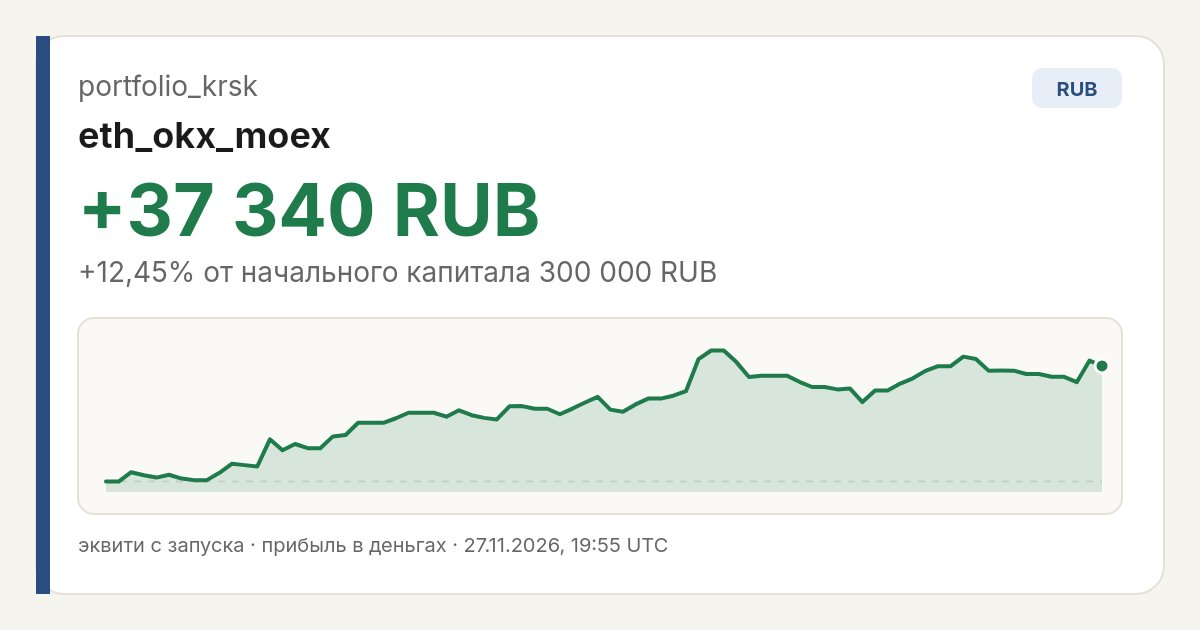
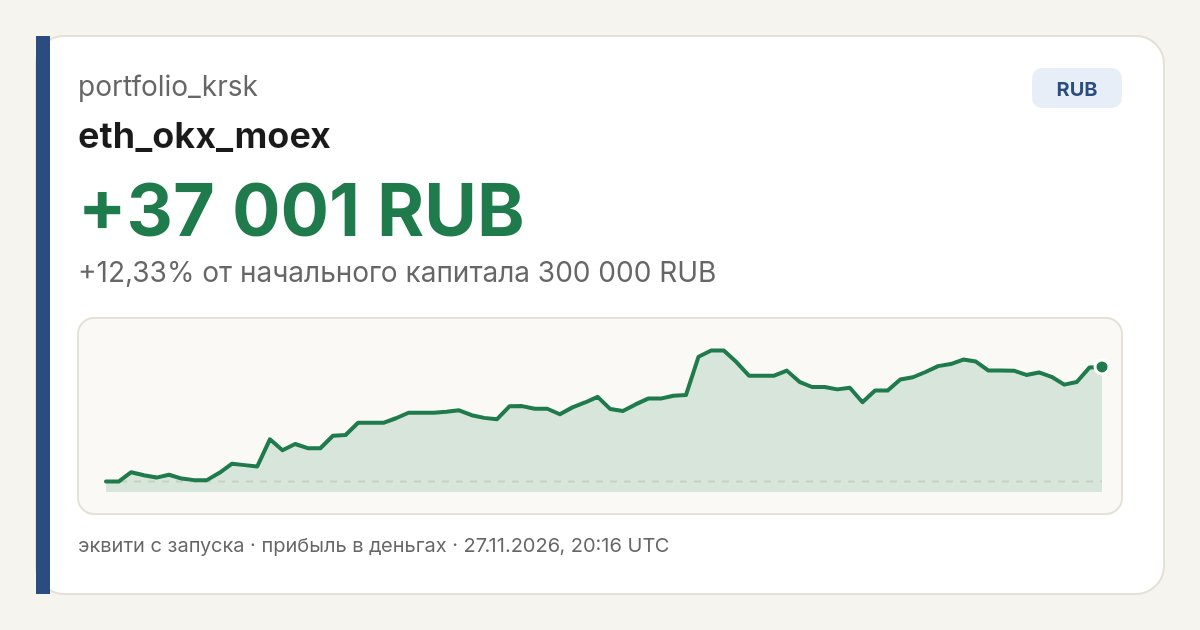
sync equity data 2026-11-27T20:16:04Z

diff --git a/share.html b/share.html
@@ -4,23 +4,23 @@
     <meta charset="UTF-8" />
     <meta name="viewport" content="width=device-width, initial-scale=1.0" />
     <title>portfolio_krsk - eth_okx_moex</title>
-    <meta name="description" content="eth_okx_moex: +37 340 RUB (+12,45%) с запуска. Лидер обложки выбран по доходности в процентах от начального капитала; суммы в разных валютах не сравниваются." />
+    <meta name="description" content="eth_okx_moex: +37 001 RUB (+12,33%) с запуска. Лидер обложки выбран по доходности в процентах от начального капитала; суммы в разных валютах не сравниваются." />
     <meta property="og:title" content="portfolio_krsk - eth_okx_moex" />
-    <meta property="og:description" content="eth_okx_moex: +37 340 RUB (+12,45%) с запуска. Лидер обложки выбран по доходности в процентах от начального капитала; суммы в разных валютах не сравниваются." />
+    <meta property="og:description" content="eth_okx_moex: +37 001 RUB (+12,33%) с запуска. Лидер обложки выбран по доходности в процентах от начального капитала; суммы в разных валютах не сравниваются." />
     <meta property="og:url" content="https://portfolio-krsk.vercel.app/" />
     <meta property="og:site_name" content="portfolio_krsk" />
     <meta property="og:locale" content="ru_RU" />
     <meta property="og:type" content="website" />
-    <meta property="og:image" content="https://varshavskiy1-beep.github.io/portfolio-krsk/og-cover.jpg?v=202611271955" />
-    <meta property="og:image:secure_url" content="https://varshavskiy1-beep.github.io/portfolio-krsk/og-cover.jpg?v=202611271955" />
+    <meta property="og:image" content="https://varshavskiy1-beep.github.io/portfolio-krsk/og-cover.jpg?v=202611272016" />
+    <meta property="og:image:secure_url" content="https://varshavskiy1-beep.github.io/portfolio-krsk/og-cover.jpg?v=202611272016" />
     <meta property="og:image:type" content="image/jpeg" />
     <meta property="og:image:width" content="1200" />
     <meta property="og:image:height" content="630" />
-    <link rel="image_src" href="https://varshavskiy1-beep.github.io/portfolio-krsk/og-cover.jpg?v=202611271955" />
+    <link rel="image_src" href="https://varshavskiy1-beep.github.io/portfolio-krsk/og-cover.jpg?v=202611272016" />
     <meta name="twitter:card" content="summary_large_image" />
     <meta name="twitter:title" content="portfolio_krsk - eth_okx_moex" />
-    <meta name="twitter:description" content="eth_okx_moex: +37 340 RUB (+12,45%) с запуска. Лидер обложки выбран по доходности в процентах от начального капитала; суммы в разных валютах не сравниваются." />
-    <meta name="twitter:image" content="https://varshavskiy1-beep.github.io/portfolio-krsk/og-cover.jpg?v=202611271955" />
+    <meta name="twitter:description" content="eth_okx_moex: +37 001 RUB (+12,33%) с запуска. Лидер обложки выбран по доходности в процентах от начального капитала; суммы в разных валютах не сравниваются." />
+    <meta name="twitter:image" content="https://varshavskiy1-beep.github.io/portfolio-krsk/og-cover.jpg?v=202611272016" />
     <meta http-equiv="refresh" content="0; url=/" />
     <script>location.replace("/")</script>
     <style>
@@ -49,9 +49,9 @@
   </head>
   <body>
     <main>
-      <img src="https://varshavskiy1-beep.github.io/portfolio-krsk/og-cover.jpg?v=202611271955" alt="portfolio_krsk - eth_okx_moex" width="1200" height="630" />
+      <img src="https://varshavskiy1-beep.github.io/portfolio-krsk/og-cover.jpg?v=202611272016" alt="portfolio_krsk - eth_okx_moex" width="1200" height="630" />
       <noscript>
-        <p>eth_okx_moex: +37 340 RUB (+12,45%) с запуска. Лидер обложки выбран по доходности в процентах от начального капитала; суммы в разных валютах не сравниваются.</p>
+        <p>eth_okx_moex: +37 001 RUB (+12,33%) с запуска. Лидер обложки выбран по доходности в процентах от начального капитала; суммы в разных валютах не сравниваются.</p>
         <p><a href="/">Открыть кабинет portfolio_krsk</a></p>
       </noscript>
     </main>
